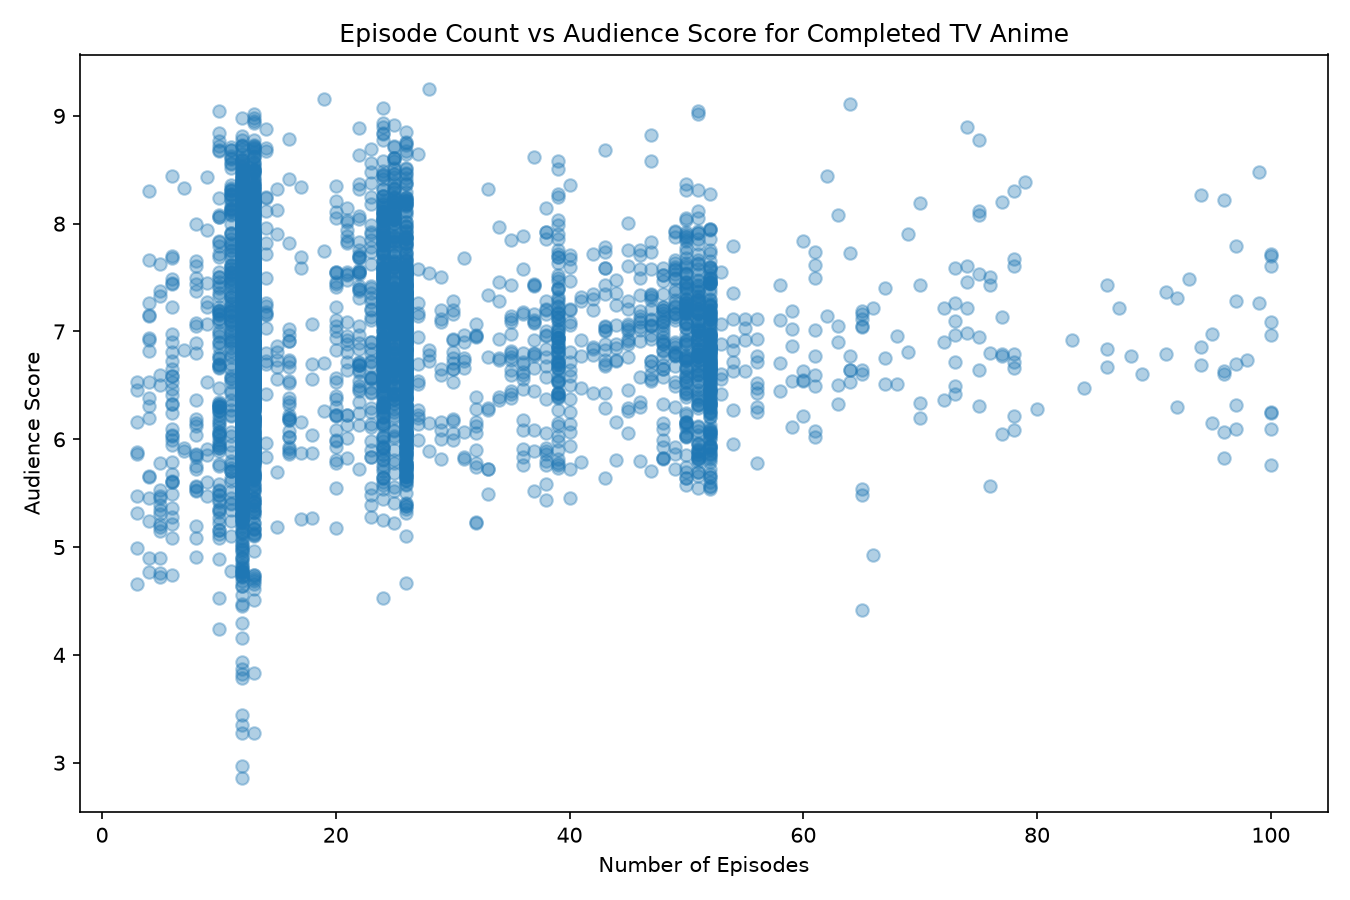
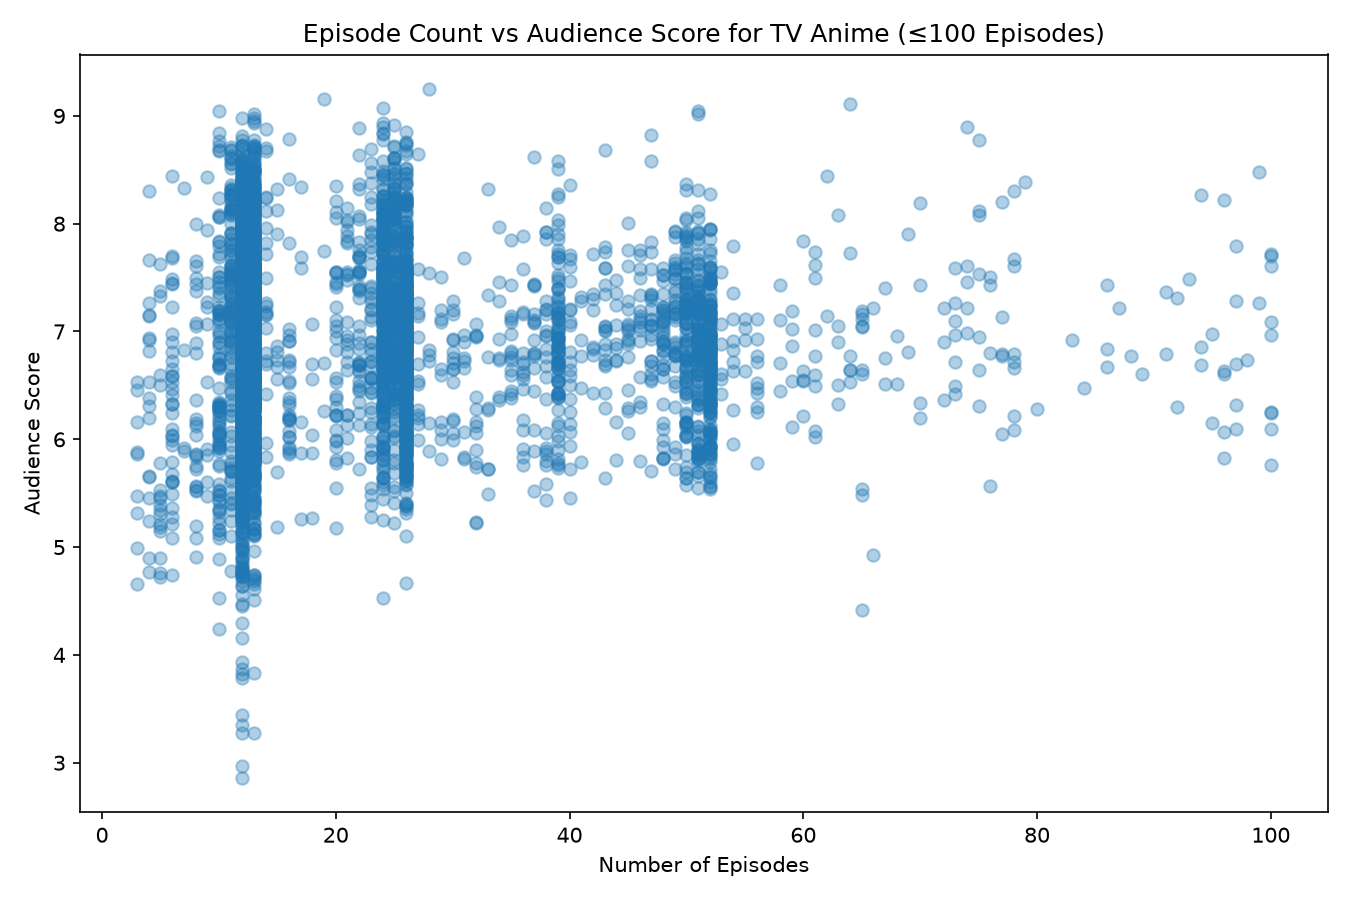
Refine chart title and regenerate visualisation

Changed region(s): [[0.2178, 0.0311, 0.8089, 0.0622]]

diff --git a/plot.py b/plot.py
@@ -52,7 +52,7 @@ plt.scatter(
 
 plt.xlabel("Number of Episodes")
 plt.ylabel("Audience Score")
-plt.title("Episode Count vs Audience Score for Completed TV Anime")
+plt.title("Episode Count vs Audience Score for TV Anime (≤100 Episodes)")
 
 plt.tight_layout()
 
